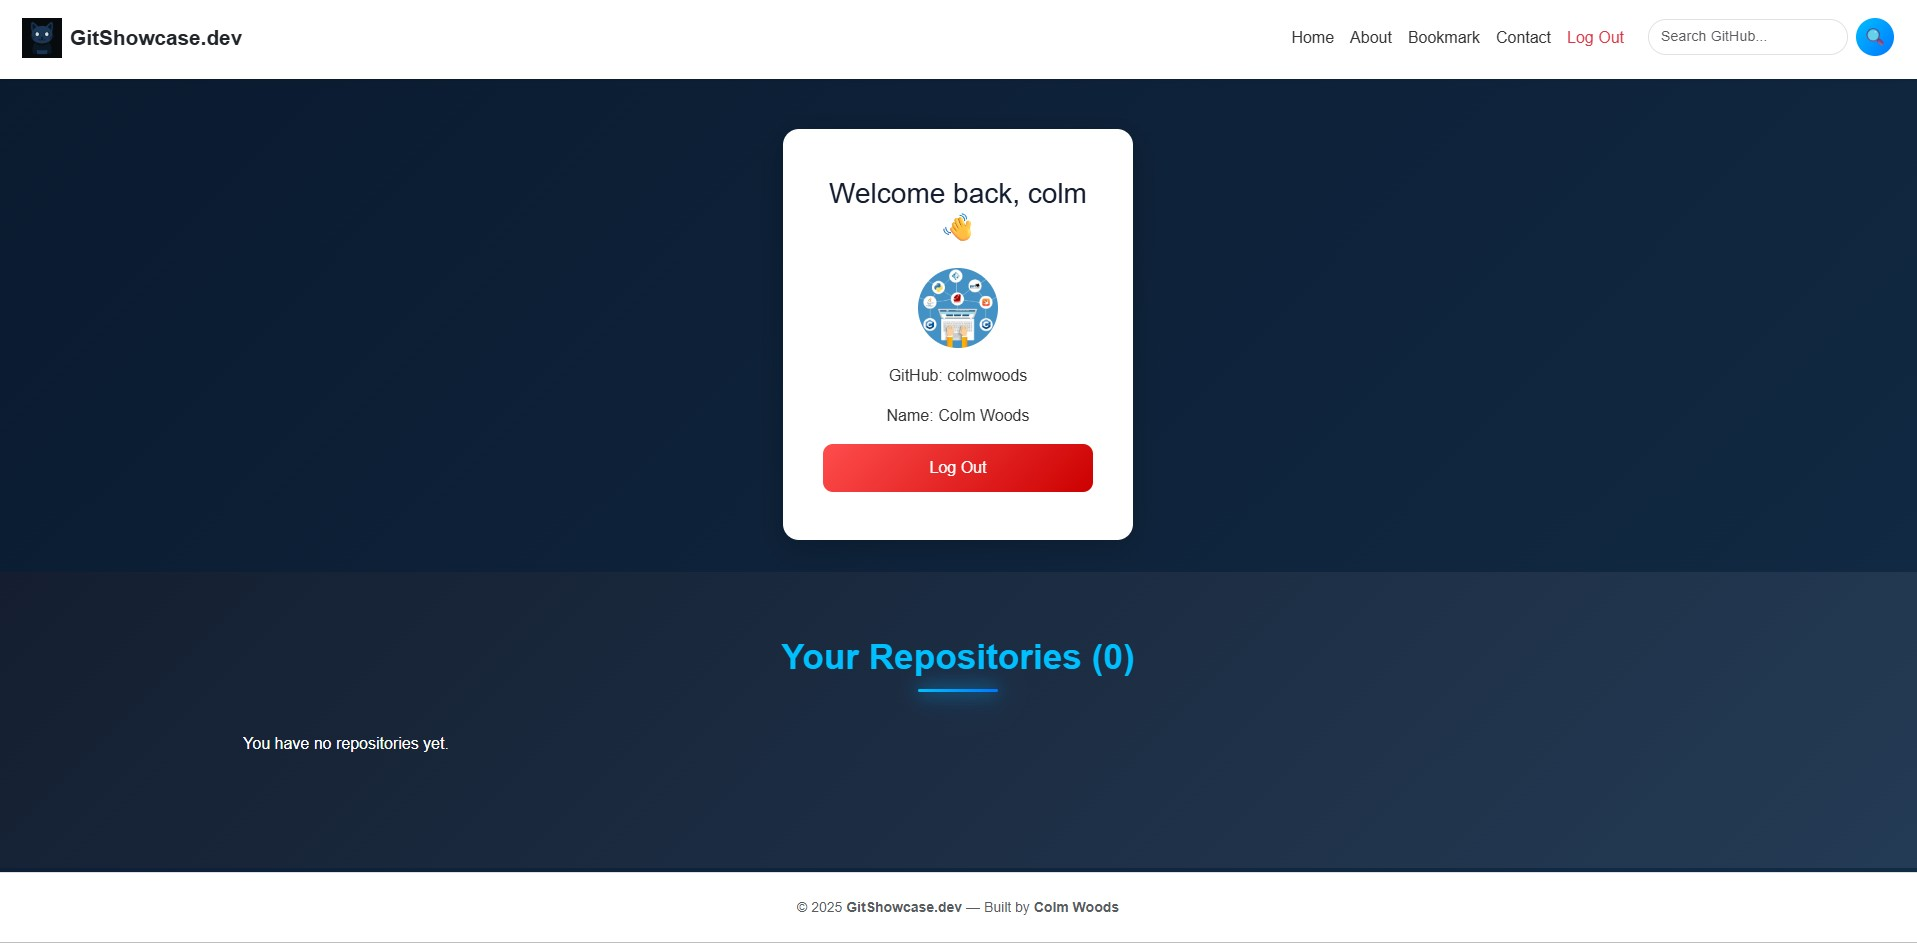
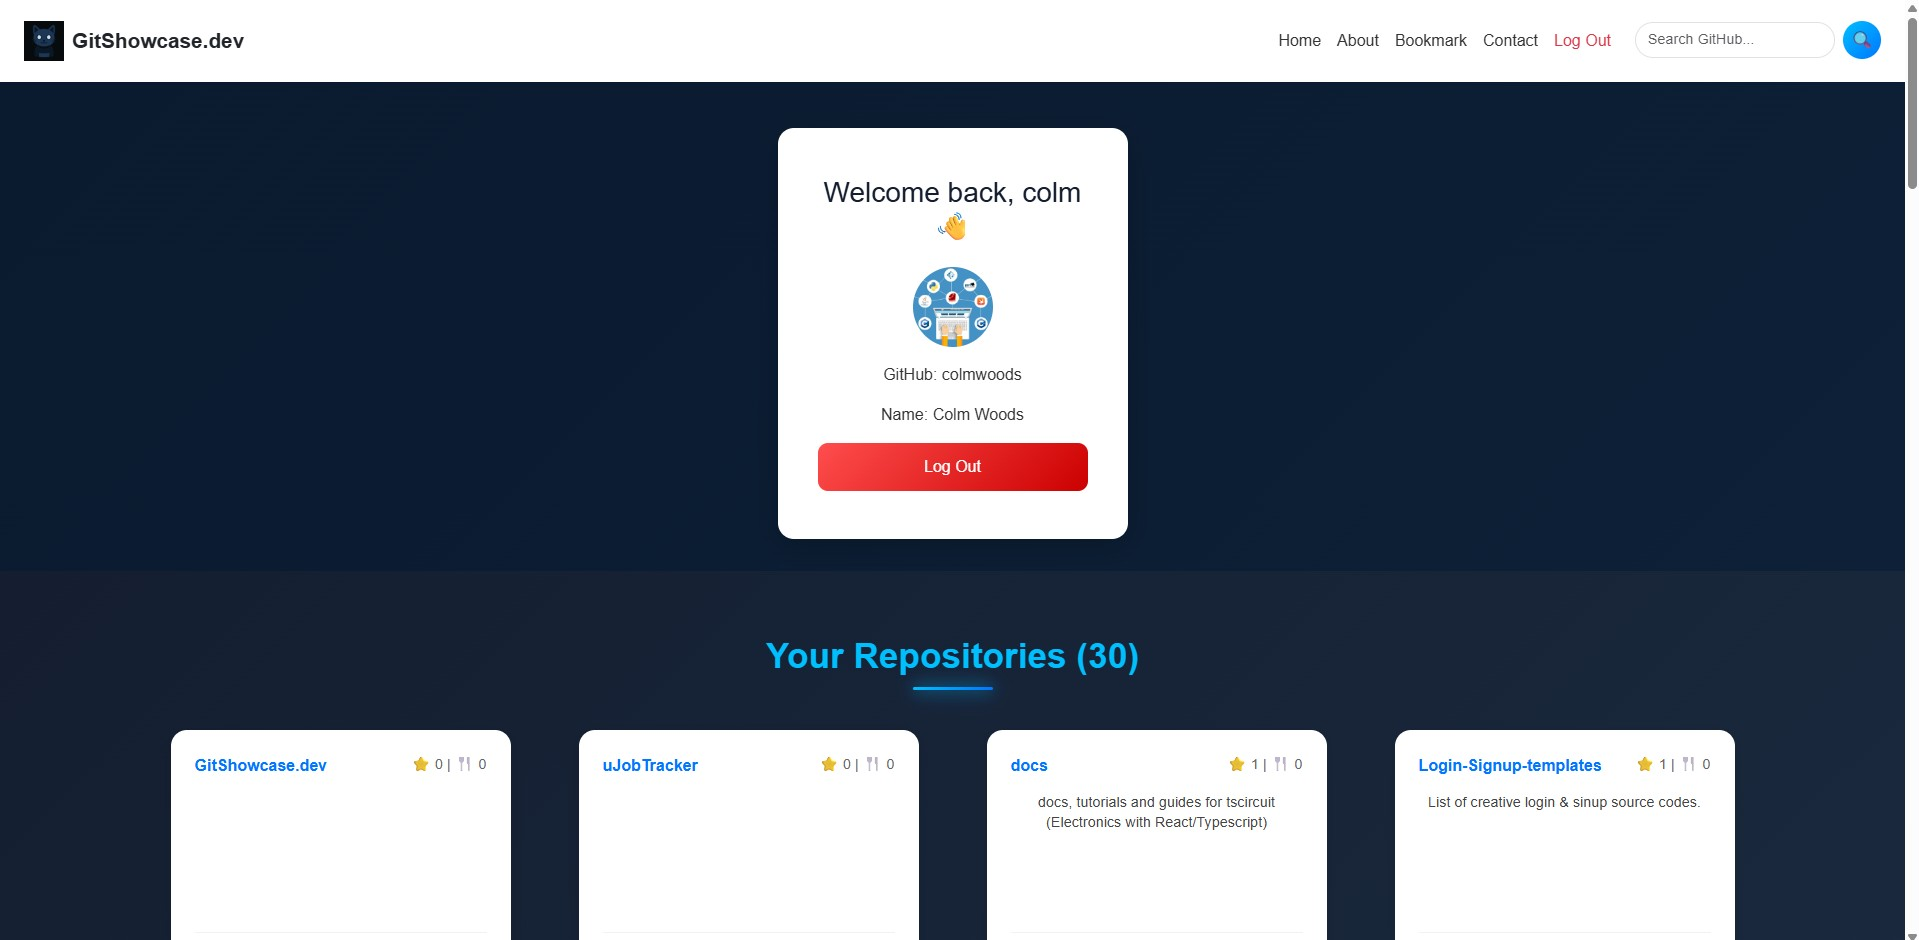
Add superuser story imgs to TESTING.md

diff --git a/TESTING.md b/TESTING.md
@@ -276,7 +276,7 @@ The table below documents the expected outcomes, how the story was tested, and t
 |-----------|-------------|------|--------|------------|
 | As a visitor, I want to search GitHub users | Search page should accept username and show repos | Searched for public GitHub user | User info and repos displayed | ![screenshot](documentation/userstories/search.jpg) |
 | As a visitor, I want to view other users’ repositories | Should be able to open profiles without login | Viewed another user's repos | Repos displayed correctly | ![screenshot](documentation/userstories/search-repos.jpg) |
-| As a visitor, I want to view repository details | Repo details should show metadata but no interactions | Opened repo detail page as guest | Metadata visible; comment/bookmark actions hidden | ![screenshot](documentation/userstories/guest-repo-detail.jpg) |
+| As a visitor, I want to view repository details | Repo details should show metadata but no interactions | Opened repo detail page as guest | Metadata visible; comments actions hidden | ![screenshot](documentation/userstories/guest-repo-detail.jpg) |
 | As a visitor, I want to read repository comments | Comments section should be publicly visible | Viewed repo comments as guest | Comments visible and paginated | ![screenshot](documentation/userstories/guest-comments.jpg) |
 | As a visitor, I want an About page | About page explains the purpose of the platform | Opened `/about` | Page displays correctly | ![screenshot](documentation/userstories/about.jpg) |
 | As a visitor, I want to submit a contact form | Contact form should validate input and submit | Submitted valid contact message | Message stored and success page displayed | ![screenshot](documentation/userstories/contact.jpg) |
